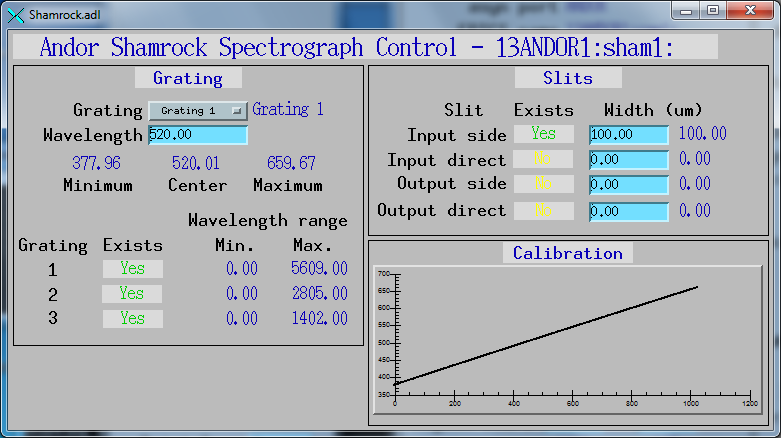
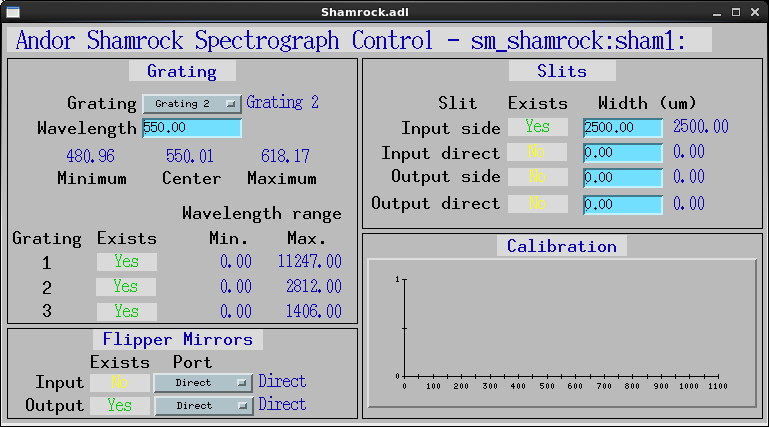
Added support for flipper mirrors

diff --git a/andorApp/src/shamrock.cpp b/andorApp/src/shamrock.cpp
@@ -8,6 +8,8 @@
  *
  * Created: April 9, 2014
  *
+ * Modified: March 16, 2015 to add Flipper functions
+ *
  */
 
 #include <iocsh.h>
@@ -26,21 +28,27 @@ static const char *driverName = "shamrock";
 
 
 /* Shamrock driver specific parameters */
-#define SRWavelengthString         "SR_WAVELENGTH"
-#define SRMinWavelengthString      "SR_MIN_WAVELENGTH"
-#define SRMaxWavelengthString      "SR_MAX_WAVELENGTH"
-#define SRCalibrationString        "SR_CALIBRATION"
-#define SRGratingString            "SR_GRATING"
-#define SRNumGratingsString        "SR_NUM_GRATINGS"
-#define SRGratingExistsString      "SR_GRATING_EXISTS"
-#define SRSlitExistsString         "SR_SLIT_EXISTS"
-#define SRSlitSizeString           "SR_SLIT_SIZE"
+#define SRWavelengthString            "SR_WAVELENGTH"
+#define SRMinWavelengthString         "SR_MIN_WAVELENGTH"
+#define SRMaxWavelengthString         "SR_MAX_WAVELENGTH"
+#define SRCalibrationString           "SR_CALIBRATION"
+#define SRGratingString               "SR_GRATING"
+#define SRNumGratingsString           "SR_NUM_GRATINGS"
+#define SRGratingExistsString         "SR_GRATING_EXISTS"
+#define SRFlipperMirrorExistsString   "SR_FLIPPER_MIRROR_EXISTS"
+#define SRFlipperMirrorPortString     "SR_FLIPPER_MIRROR_PORT"
+#define SRSlitExistsString            "SR_SLIT_EXISTS"
+#define SRSlitSizeString              "SR_SLIT_SIZE"
+
 
 #define MAX_ERROR_MESSAGE_SIZE 100
 
 #define MAX_SLITS 4
 
 #define MAX_GRATINGS 3
+
+#define MAX_FLIPPER_MIRRORS 2
+
 
 // Maximum number of address.
 #define MAX_ADDR 4
@@ -68,9 +76,12 @@ protected:
     int SRGrating_;             /** Grating                      (int32 read/write) */
     int SRNumGratings_;         /** Number of gratings           (int32 read) */
     int SRGratingExists_;       /** Grating exists               (int32 read) */
+    int SRFlipperMirrorExists_; /** Flipper Mirror exists        (int32 read) */
+    int SRFlipperMirrorPort_;   /** Flipper Mirror Port          (int32 read/write) */
     int SRSlitExists_;          /** Slit exists                  (int32 read) */
     int SRSlitSize_;            /** Slit width                   (float64 read/write) */
     #define LAST_SR_PARAM SRSlitSize_
+
 
 private:
     /* Local methods to this class */
@@ -83,6 +94,7 @@ private:
     int numPixels_;
     float *calibration_;
     char lastError_[MAX_ERROR_MESSAGE_SIZE];
+    bool flipperMirrorIsPresent_[MAX_FLIPPER_MIRRORS];
 };
 
 /** Number of asynPortDriver parameters this driver supports. */
@@ -127,6 +139,7 @@ shamrock::shamrock(const char *portName, int shamrockID, const char *iniPath, in
     int numGratings;
     float pixelWidth;
     int i;
+    int numFlipperStatus;
 
     createParam(SRWavelengthString,       asynParamFloat64,   &SRWavelength_);
     createParam(SRMinWavelengthString,    asynParamFloat64,   &SRMinWavelength_);
@@ -135,7 +148,9 @@ shamrock::shamrock(const char *portName, int shamrockID, const char *iniPath, in
     createParam(SRGratingString,          asynParamInt32,     &SRGrating_);
     createParam(SRNumGratingsString,      asynParamInt32,     &SRNumGratings_);
     createParam(SRGratingExistsString,    asynParamInt32,     &SRGratingExists_);
-    createParam(SRSlitExistsString,       asynParamInt32,     &SRSlitExists_);
+    createParam(SRFlipperMirrorPortString,		asynParamInt32,     &SRFlipperMirrorPort_);
+    createParam(SRFlipperMirrorExistsString,    asynParamInt32,     &SRFlipperMirrorExists_);
+    createParam(SRSlitExistsString,	  asynParamInt32,     &SRSlitExists_);
     createParam(SRSlitSizeString,         asynParamFloat64,   &SRSlitSize_);
 
     error = ShamrockInitialize((char *)iniPath);
@@ -172,6 +187,7 @@ shamrock::shamrock(const char *portName, int shamrockID, const char *iniPath, in
     error = ShamrockGetNumberGratings(shamrockId_, &numGratings);
     status = checkError(error, functionName, "ShamrockGetNumberGratings");
     setIntegerParam(SRNumGratings_, numGratings);
+
     // Get wavelength range of each grating
     for (i=1; i<=numGratings; i++) {
         setIntegerParam(i, SRGratingExists_, 1);
@@ -184,6 +200,13 @@ shamrock::shamrock(const char *portName, int shamrockID, const char *iniPath, in
         setIntegerParam(i, SRGratingExists_, 0);
     }
     
+    // Determine which Flipper Mirrors exist
+    for (i=0; i<MAX_FLIPPER_MIRRORS; i++) {
+		error = ShamrockFlipperMirrorIsPresent(shamrockId_, i+1, &numFlipperStatus);
+        status = checkError(error, functionName, "ShamrockFlipperMirrorIsPresent");
+        flipperMirrorIsPresent_[i] = (numFlipperStatus== 1); 
+		setIntegerParam(i, SRFlipperMirrorExists_, flipperMirrorIsPresent_[i]);
+    }
     
     getStatus();
     
@@ -215,12 +238,23 @@ asynStatus shamrock::getStatus()
     float width;
     int i;
     static const char *functionName = "getStatus";
+	int port;
+
+    //Get Flipper Status
+    for (i=0; i<MAX_FLIPPER_MIRRORS; i++) {
+        if (flipperMirrorIsPresent_[i] == 0) continue;
+        error = ShamrockGetFlipperMirror(shamrockId_, i+1, &port);
+        status = checkError(error, functionName, "ShamrockGetFlipperMirror");
+        if (status) return asynError;
+        setIntegerParam(i, SRFlipperMirrorPort_, port);
+    }
+
 
     error = ShamrockGetGrating(shamrockId_, &grating);
     status = checkError(error, functionName, "ShamrockGetGrating");
     if (status) return asynError;
     setIntegerParam(SRGrating_, grating);
-
+    
     error = ShamrockGetWavelength(shamrockId_, &wavelength);
     status = checkError(error, functionName, "ShamrockGetWavelength");
     if (status) return asynError;
@@ -277,6 +311,15 @@ asynStatus shamrock::writeInt32( asynUser *pasynUser, epicsInt32 value)
         error = ShamrockSetGrating(shamrockId_, value);
         status = checkError(error, functionName, "ShamrockSetGrating");
     }
+    
+    // Port Information
+    else if (function == SRFlipperMirrorPort_) {
+    	if (flipperMirrorIsPresent_[addr]) {
+        	error = ShamrockSetFlipperMirror(shamrockId_, addr+1, value);
+        	status = checkError(error, functionName, "ShamrockSetFlipperMirror");
+        }
+    }
+
     
     getStatus();
 
